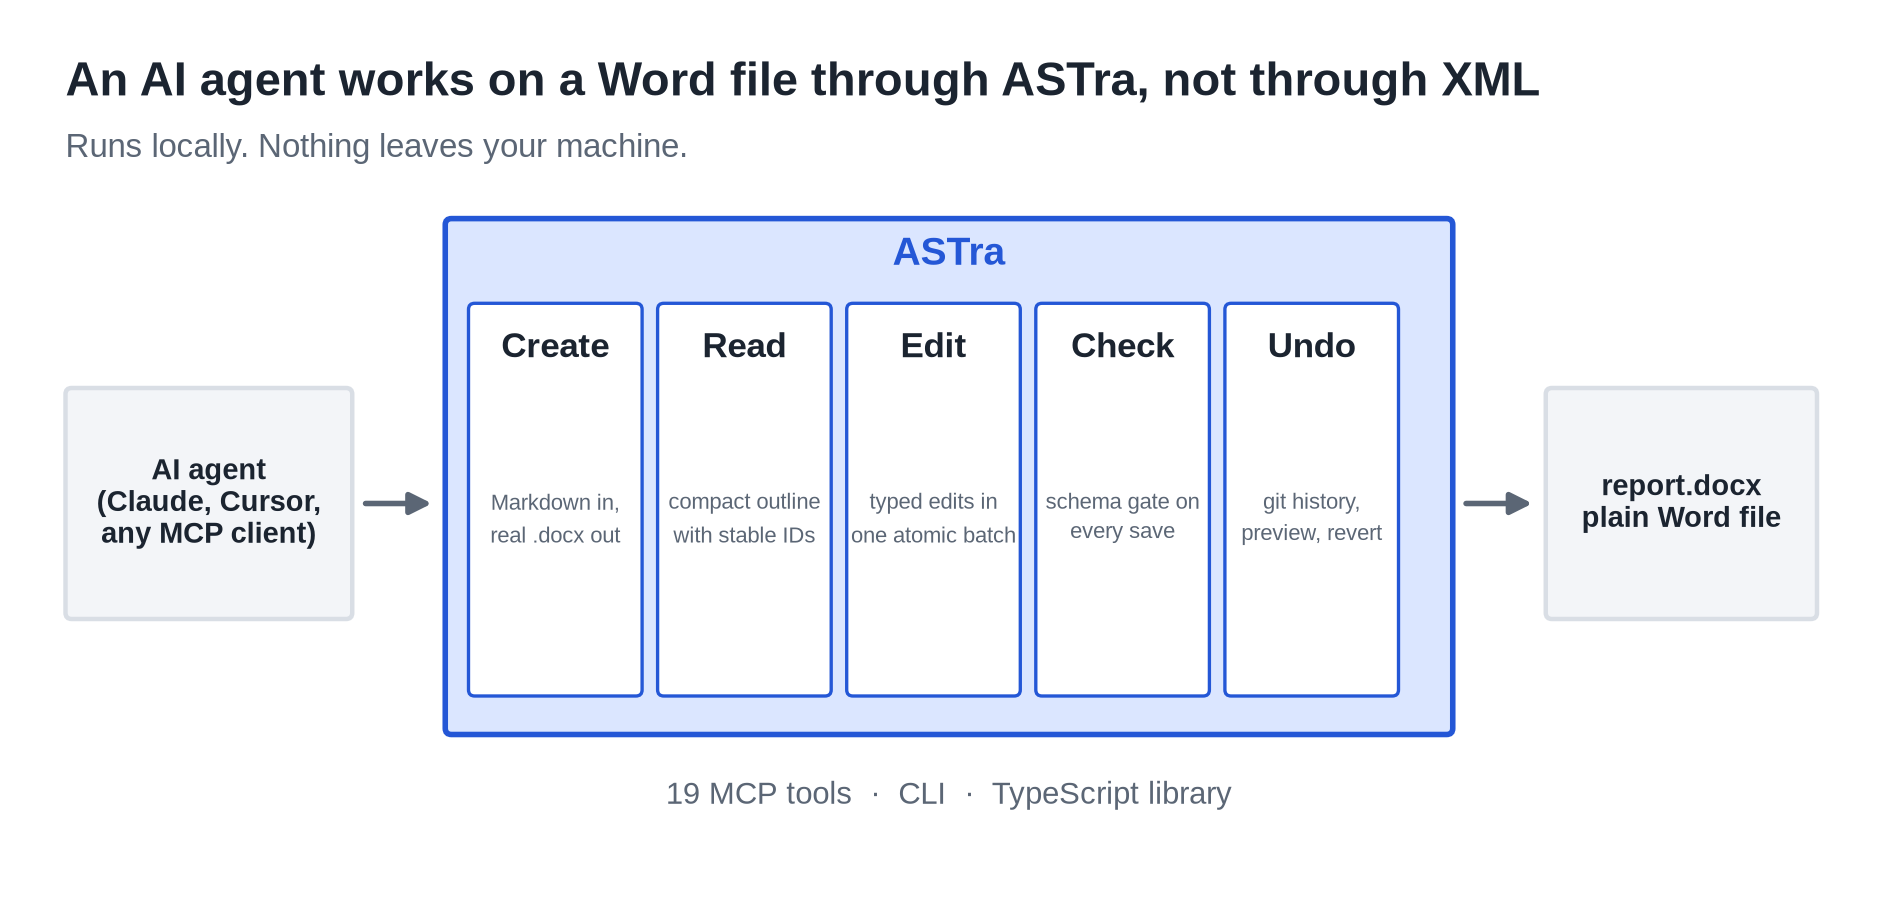
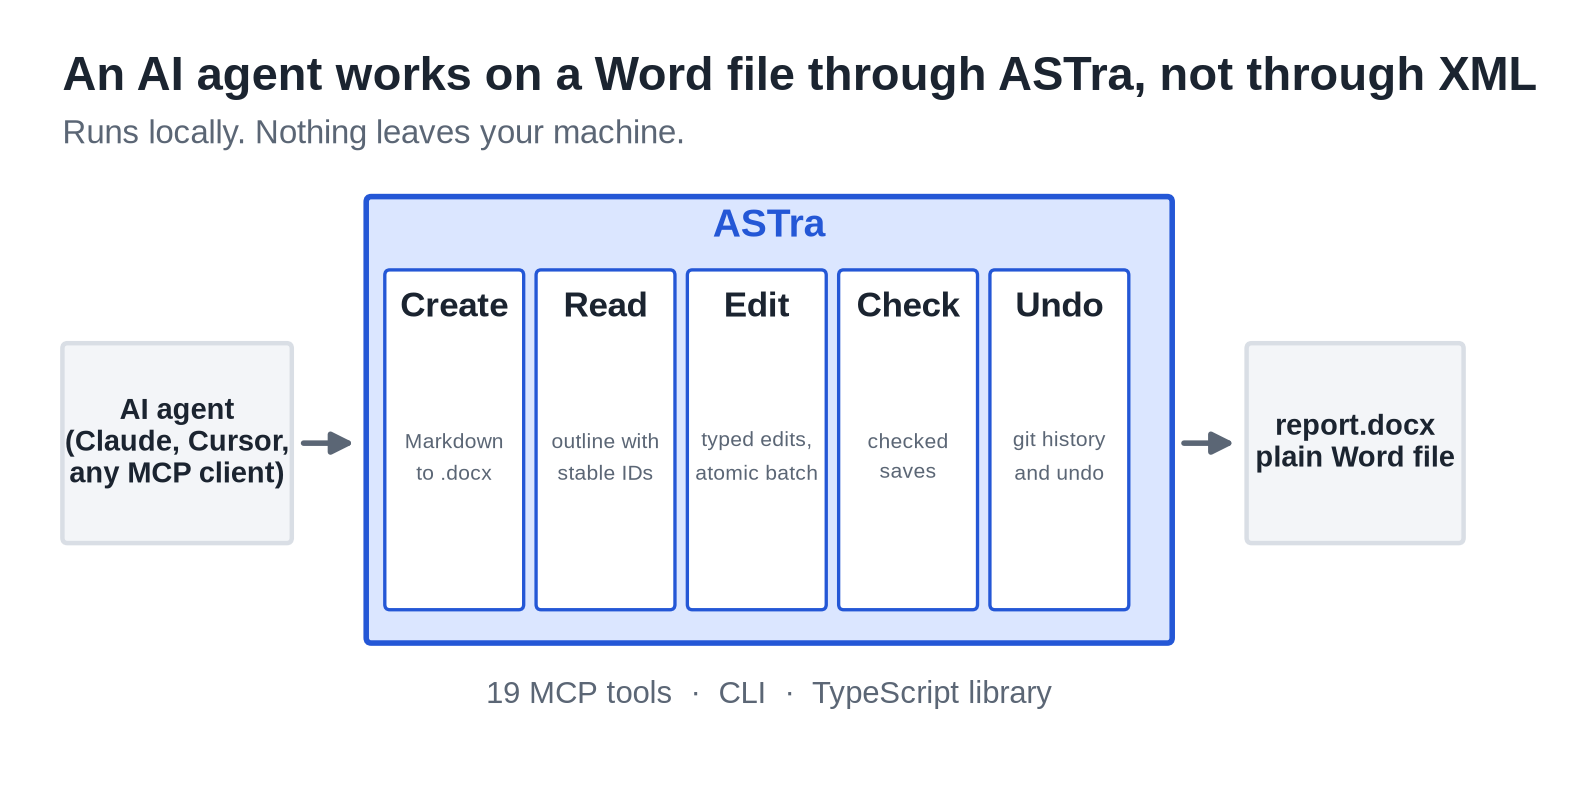
benchmarks: figures sized for reading on a page

diff --git a/benchmarks/figures/make_figures.py b/benchmarks/figures/make_figures.py
@@ -31,7 +31,7 @@ def arrow(ax, x1, y1, x2, y2, color=MUTED, lw=2):
 
 
 # 1. Hero: the five verbs --------------------------------------------------
-fig, ax = plt.subplots(figsize=(11.5, 5.2))
+fig, ax = plt.subplots(figsize=(9.2, 4.5))
 ax.set_xlim(0, 11.5); ax.set_ylim(0, 5.2); ax.axis("off")
 ax.text(0.1, 4.9, "An AI agent works on a Word file through ASTra, not through XML", fontsize=17, fontweight="bold", color=INK)
 ax.text(0.1, 4.5, "Runs locally. Nothing leaves your machine.", fontsize=12, color=MUTED)
@@ -39,14 +39,14 @@ box(ax, 0.1, 1.5, 1.85, 1.5, "#f3f5f8", LINE, "AI agent\n(Claude, Cursor,\nany M
 box(ax, 9.65, 1.5, 1.75, 1.5, "#f3f5f8", LINE, "report.docx\nplain Word file", 10.5)
 box(ax, 2.55, 0.75, 6.5, 3.35, BLUE_L, BLUE, "", lw=2)
 ax.text(5.8, 3.8, "ASTra", ha="center", fontsize=14, fontweight="bold", color=BLUE)
-verbs = [("Create", "Markdown in,\nreal .docx out"), ("Read", "compact outline\nwith stable IDs"), ("Edit", "typed edits in\none atomic batch"),
-         ("Check", "schema gate on\nevery save"), ("Undo", "git history,\npreview, revert")]
+verbs = [("Create", "Markdown\nto .docx"), ("Read", "outline with\nstable IDs"), ("Edit", "typed edits,\natomic batch"),
+         ("Check", "checked\nsaves"), ("Undo", "git history\nand undo")]
 w = 1.12
 for i, (v, d) in enumerate(verbs):
     x = 2.7 + i * 1.22
     box(ax, x, 1.0, w, 2.55, "white", BLUE, "", lw=1.2)
     ax.text(x + w / 2, 3.2, v, ha="center", fontsize=12.5, fontweight="bold", color=INK)
-    ax.text(x + w / 2, 2.15, d, ha="center", va="center", fontsize=8, color=MUTED, linespacing=1.5)
+    ax.text(x + w / 2, 2.15, d, ha="center", va="center", fontsize=7.6, color=MUTED, linespacing=1.6)
 arrow(ax, 2.0, 2.25, 2.5, 2.25); arrow(ax, 9.1, 2.25, 9.6, 2.25)
 ax.text(5.8, 0.3, "19 MCP tools  \u00b7  CLI  \u00b7  TypeScript library", ha="center", fontsize=11, color=MUTED)
 save(fig, "01-overview.png")
@@ -110,13 +110,13 @@ fig.suptitle("A small edit should be a small change", x=0.06, ha="left", fontsiz
 save(fig, "04-edit-locality.png")
 
 # 5. The gate ------------------------------------------------------------------
-fig, ax = plt.subplots(figsize=(11, 4.4))
+fig, ax = plt.subplots(figsize=(9.4, 3.9))
 ax.set_xlim(0, 11); ax.set_ylim(0, 4.4); ax.axis("off")
-ax.text(0.1, 4.05, "The gate sits at the save: an edit that adds errors never reaches the disk", fontsize=16, fontweight="bold", color=INK)
+ax.text(0.1, 4.05, "The gate sits at the save: an edit that adds errors never reaches the disk", fontsize=14.5, fontweight="bold", color=INK)
 box(ax, 0.1, 1.8, 2.0, 1.2, "#f3f5f8", LINE, "edit batch\ncolor: \"banana\"", 11)
 box(ax, 2.9, 1.8, 2.0, 1.2, "#f3f5f8", LINE, "session\n(in memory)", 11)
 box(ax, 5.7, 1.8, 2.1, 1.2, BLUE_L, BLUE, "schema check\nOpen XML SDK", 11, color=BLUE)
-box(ax, 8.6, 2.55, 2.3, 0.95, RED_L, RED, "save refused\n7 new errors + xPaths", 10.5, color=RED)
+box(ax, 8.6, 2.55, 2.3, 0.95, RED_L, RED, "save refused\n7 new errors, xPaths", 10.5, color=RED)
 box(ax, 8.6, 1.0, 2.3, 0.95, GREEN_L, GREEN, "saved + new\ngit commit", 10.5, color=GREEN)
 arrow(ax, 2.15, 2.4, 2.85, 2.4); arrow(ax, 4.95, 2.4, 5.65, 2.4)
 arrow(ax, 7.85, 2.7, 8.55, 3.0, color=RED); arrow(ax, 7.85, 2.1, 8.55, 1.5, color=GREEN)
@@ -126,7 +126,7 @@ ax.text(0.1, 0.35, "Default mode refuses any save that adds errors. Strict mode 
 save(fig, "05-gate.png")
 
 # 6. History timeline ----------------------------------------------------------
-fig, ax = plt.subplots(figsize=(11, 3.9))
+fig, ax = plt.subplots(figsize=(9.4, 3.5))
 ax.set_xlim(0, 11); ax.set_ylim(0, 3.9); ax.axis("off")
 ax.text(0.1, 3.55, "Every save is a commit. Undo is a new commit, never a rewrite.", fontsize=16, fontweight="bold", color=INK)
 ax.plot([0.9, 9.6], [2.0, 2.0], color=LINE, lw=4, zorder=1)
